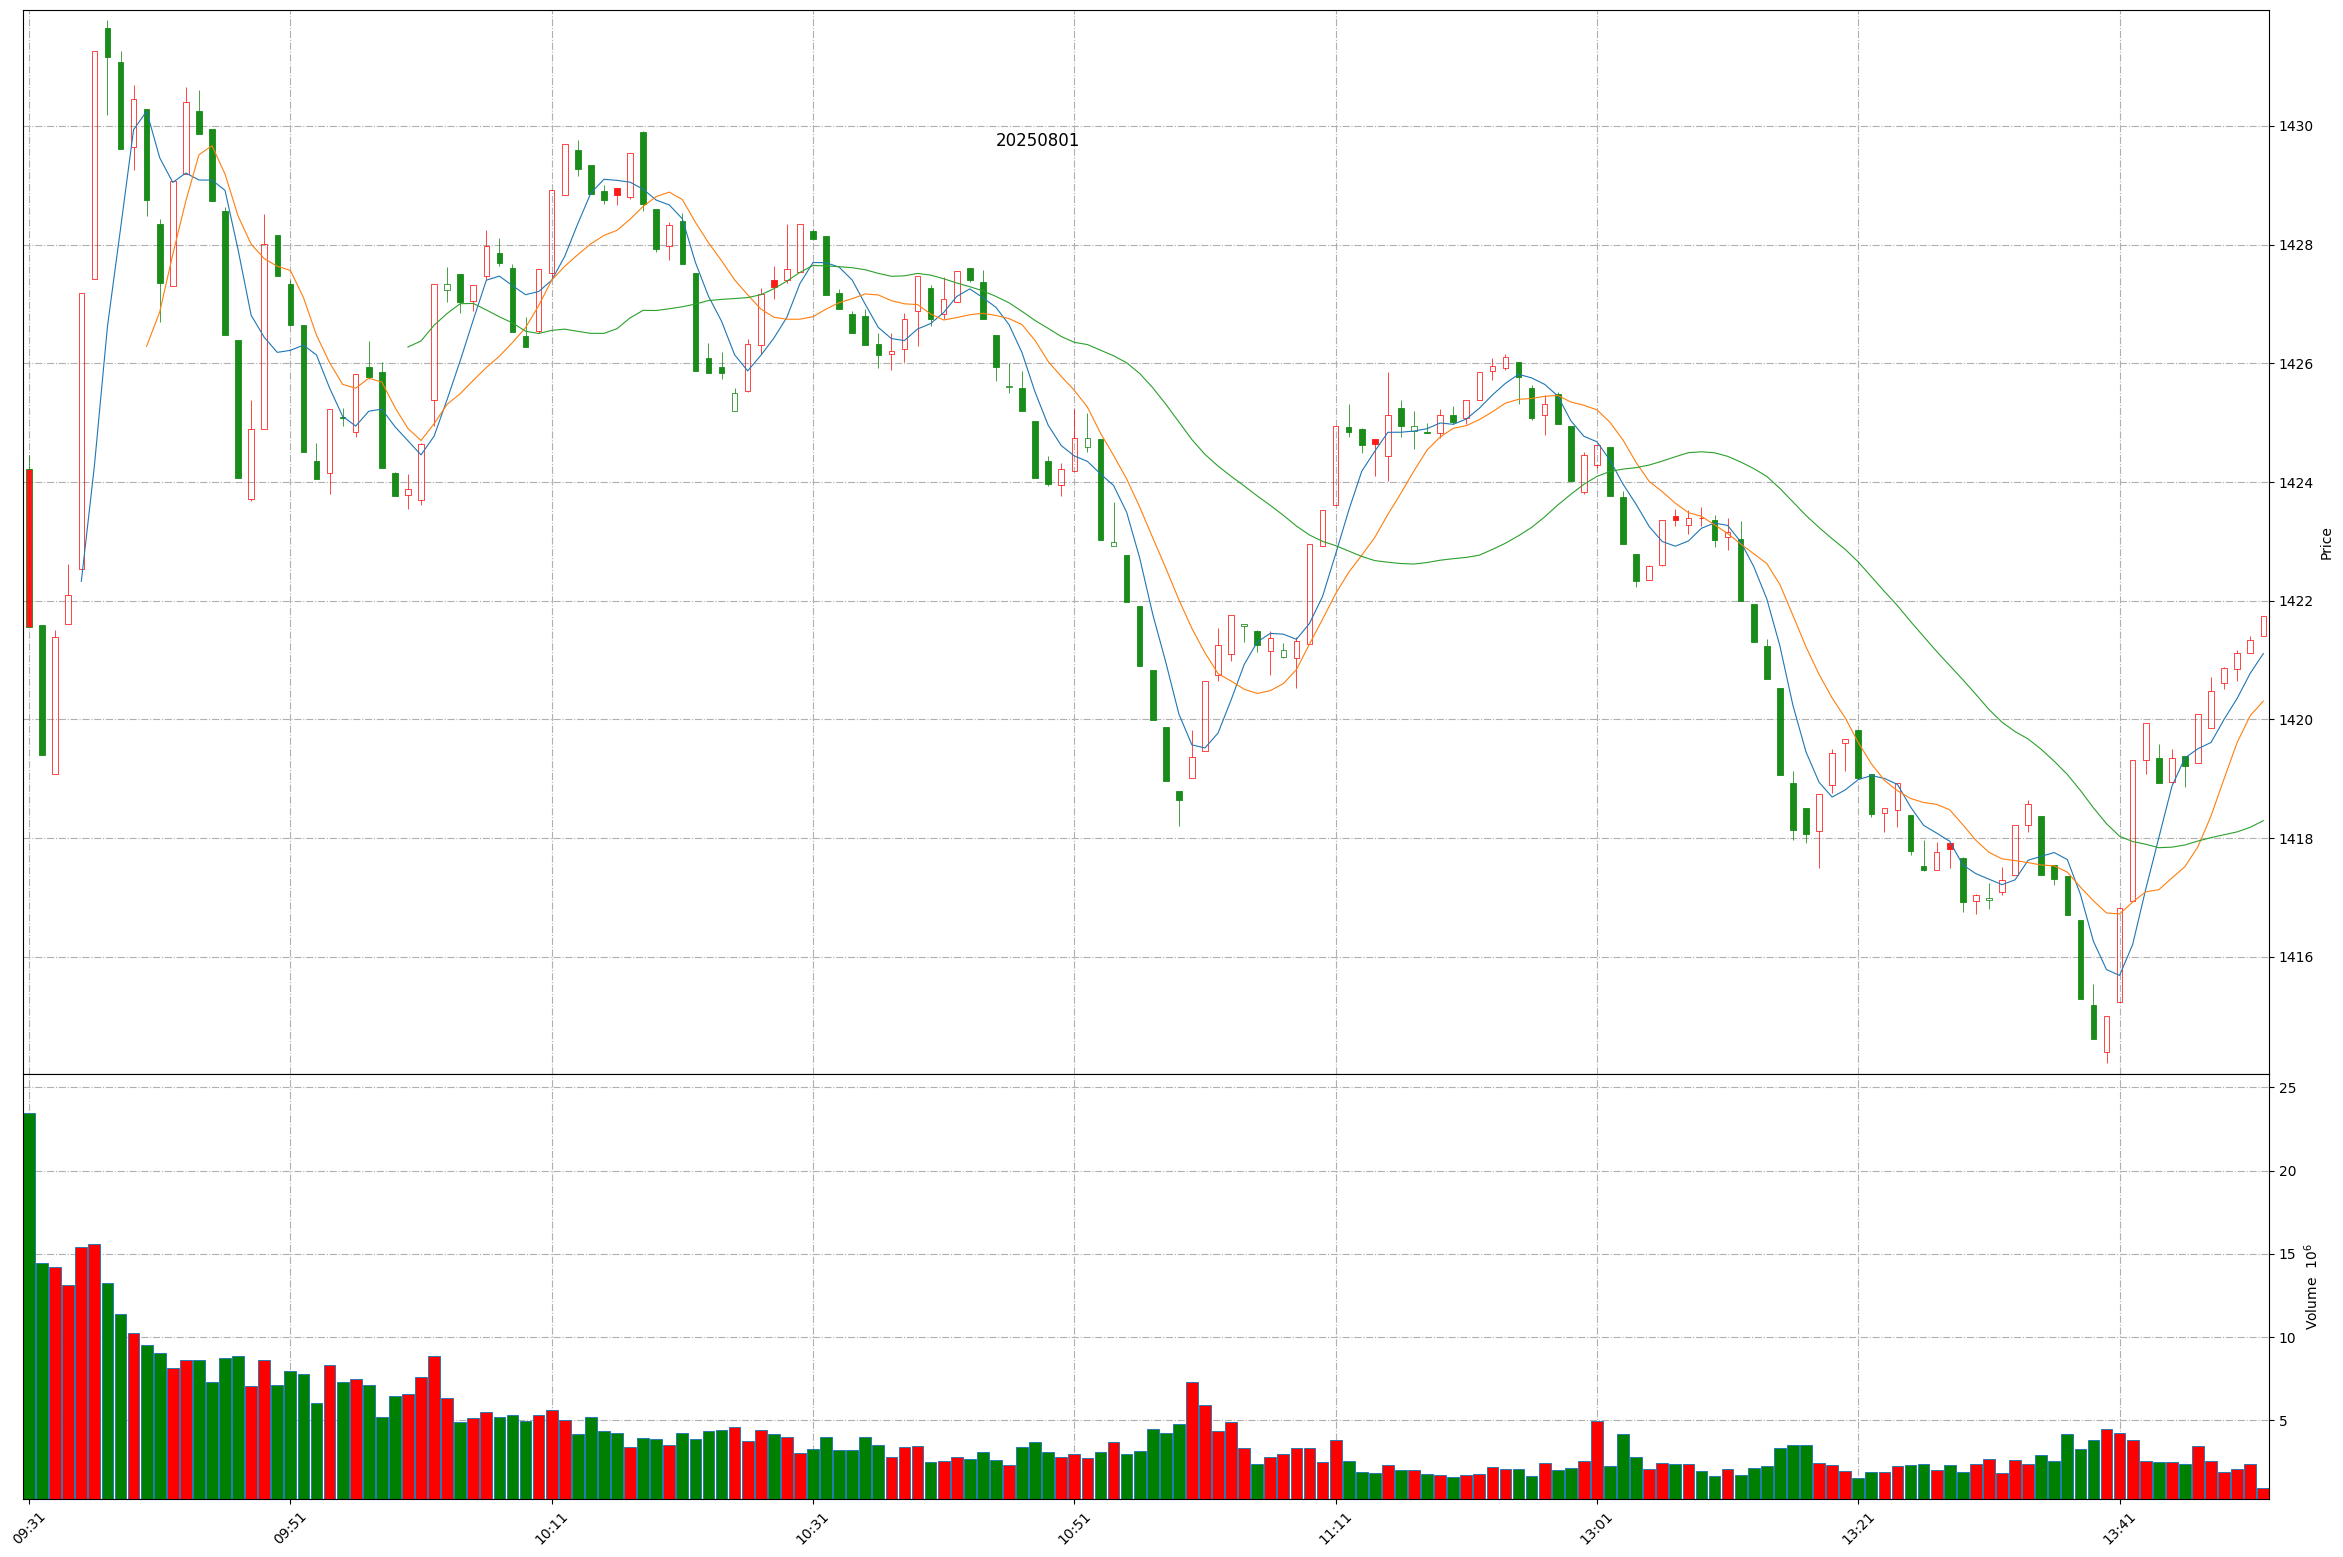
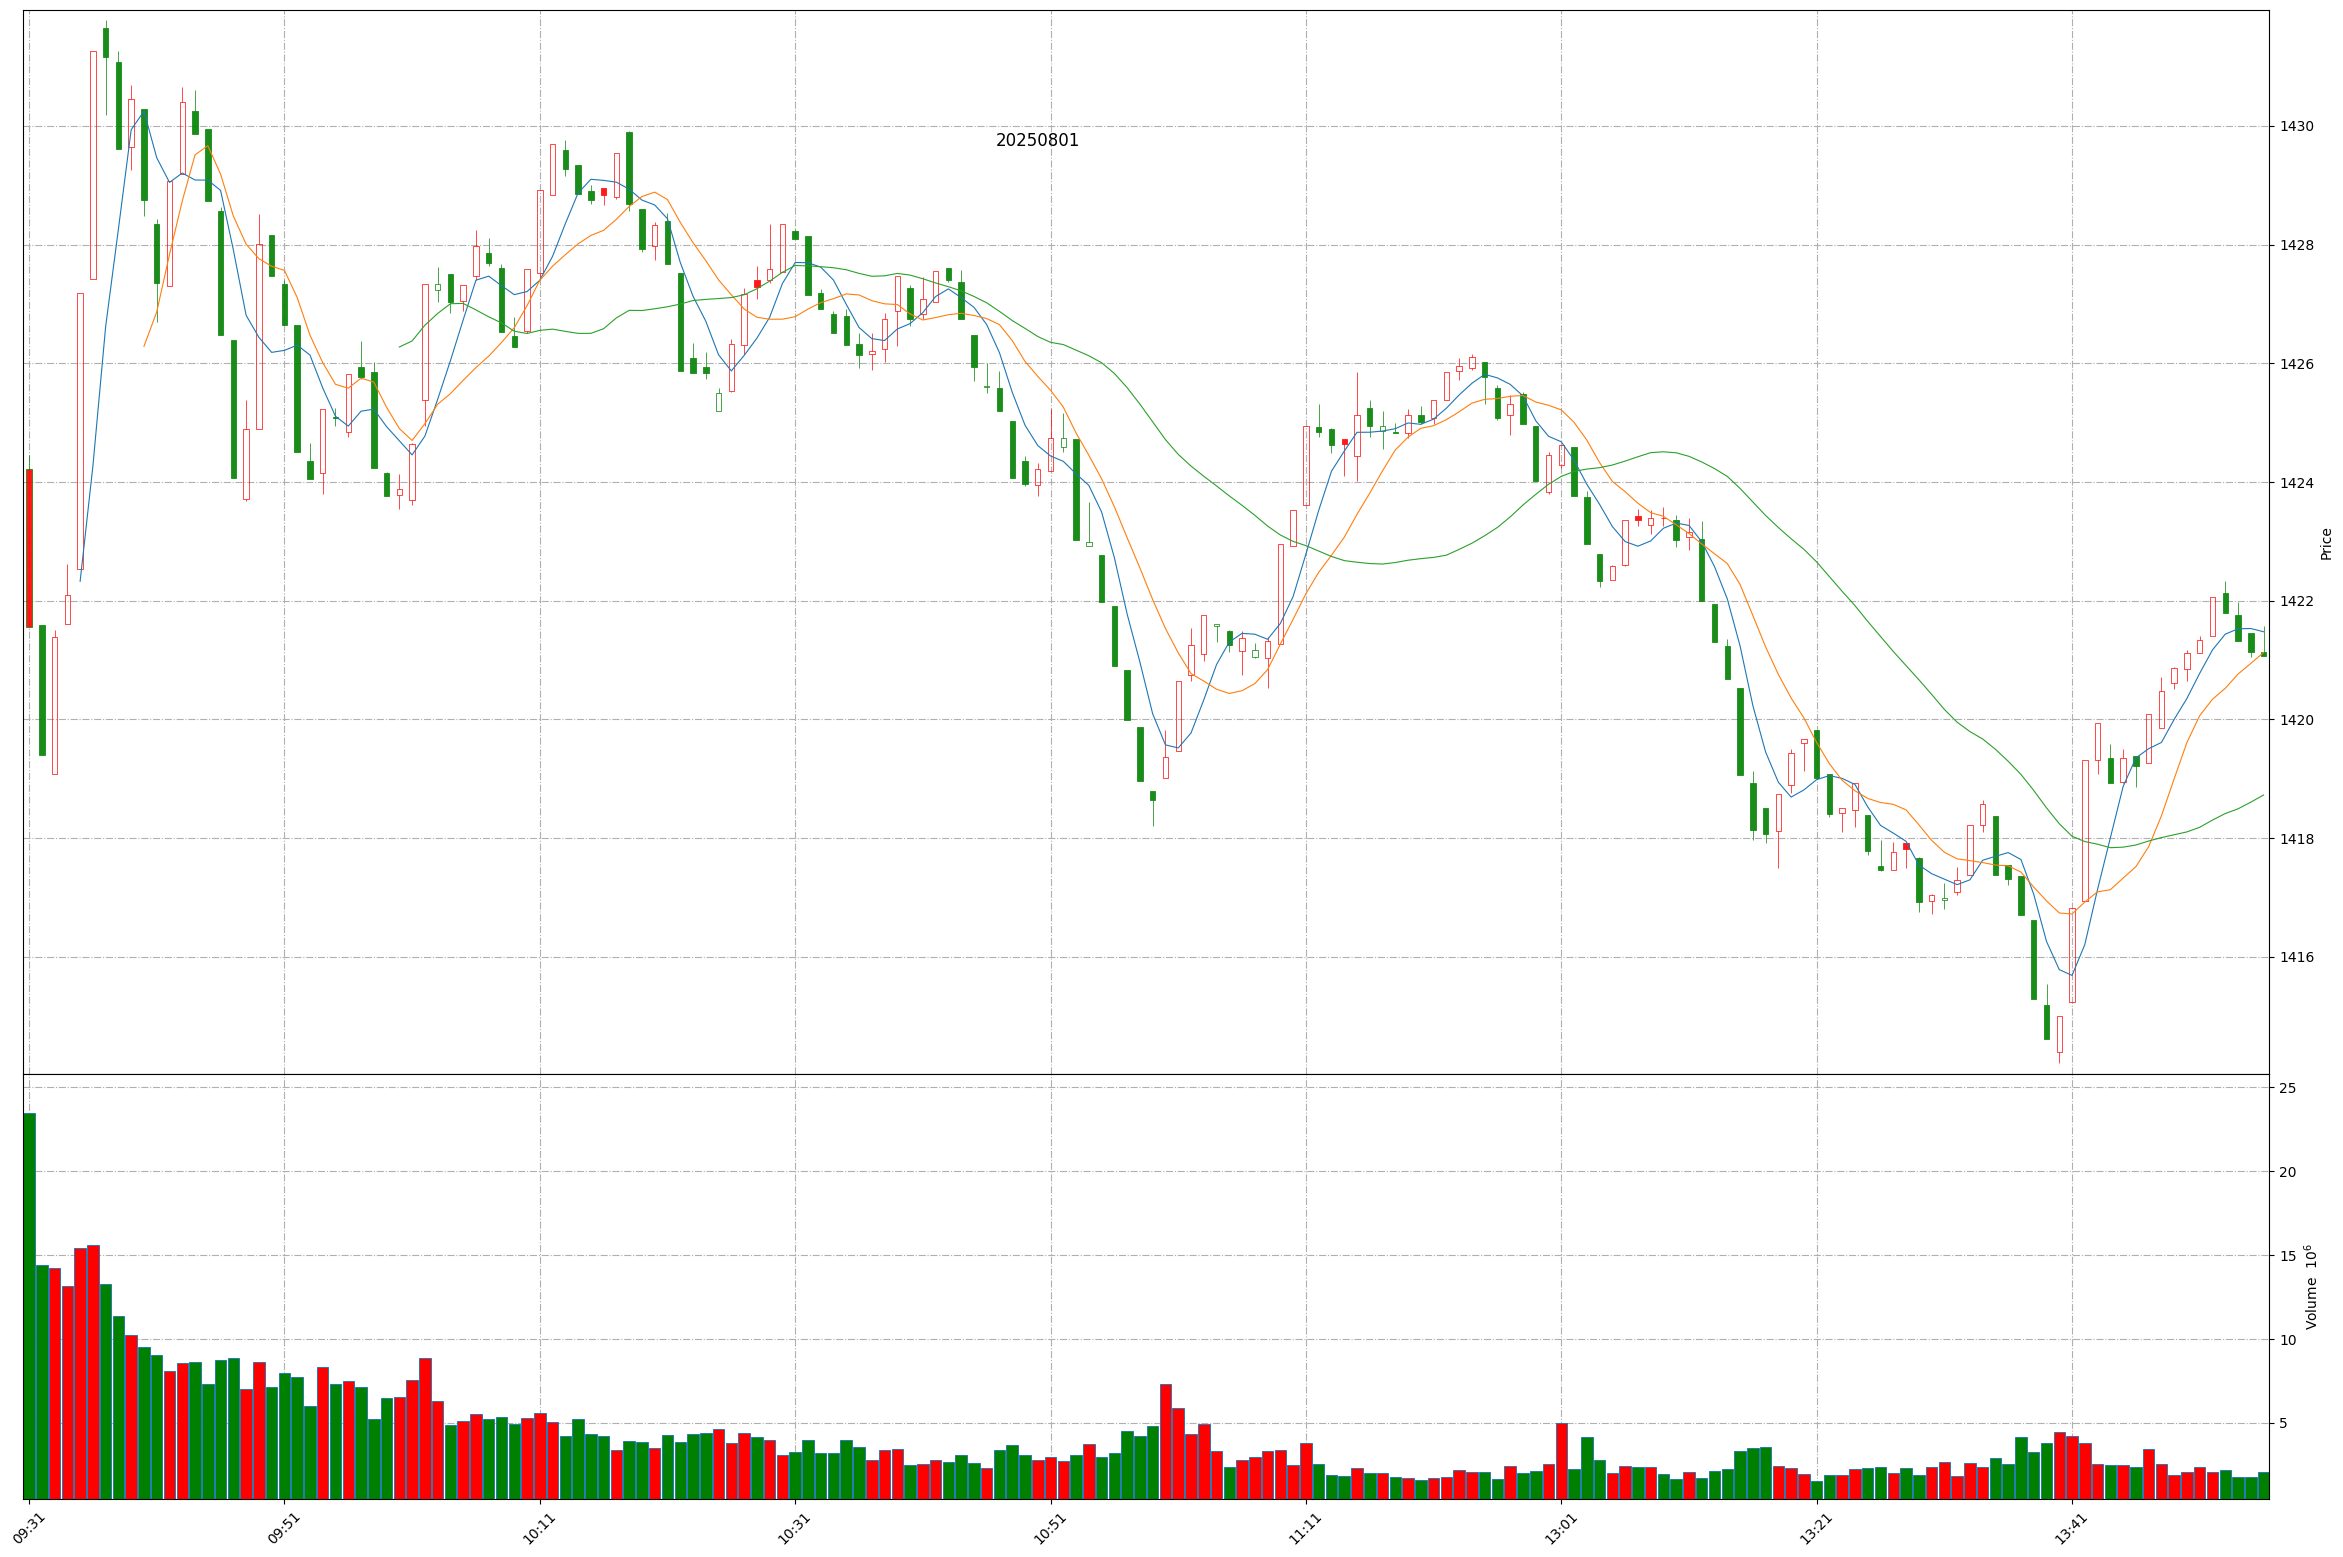
Github action update at 2025-08-01 13:56:01.

diff --git a/README.md b/README.md
@@ -1,11 +1,11 @@
 
 # Daily-A-share-market-quotes 每日 A 股指数（5min 更新）- 20250801
 
-### 上证指数 20250801 13:51
+### 上证指数 20250801 13:56
 ![](./fig/2025/8/20250801-sh000001.png)
 
-### 深证成指 20250801 13:51
+### 深证成指 20250801 13:56
 ![](./fig/2025/8/20250801-sz399001.png)
 
-### 北证50 20250801 13:51
+### 北证50 20250801 13:56
 ![](./fig/2025/8/20250801-bj899050.png)
